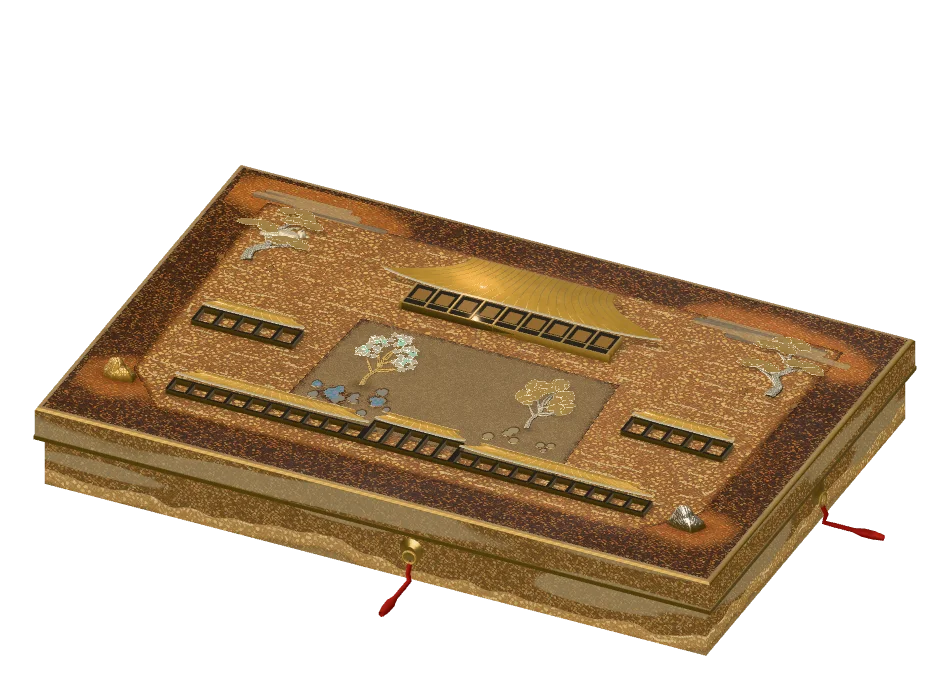
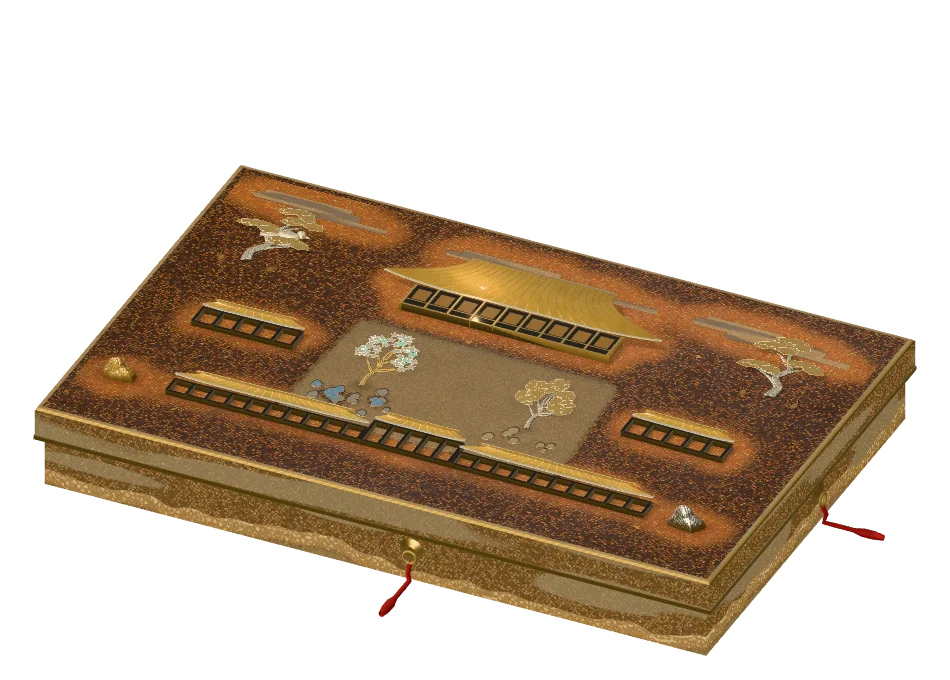
feat(plate): Nishikyo, Kamigyo and Shimogyo rebuilt without the platform; hill() and gardenGround() removed (nine wards, batch 3)

Changed region(s): [[0.1221, 0.2779, 0.8853, 0.8029]]

diff --git a/src/studies/toji/plate/nishikyo.js b/src/studies/toji/plate/nishikyo.js
@@ -1,21 +1,56 @@
-// A low shoreline of separate rooms, with an open bamboo deck reaching into the pond like a comma.
-// A loose arc of inlaid stones approaches from the left; the upper-right sky and near centre remain empty.
-import {MAT, gardenGround, pond, hall, moonDeck, moon, steppingStones, lantern, branchPine as pine, bird, rock, suyari, bambooFence} from './vocab.js';
+// Three shoin step away from the water in a goose-flight line; a moon deck reaches out over the pond's north-west shore.
+// The ground (doha.js) is drawn piece by piece, every outline written here as control points. There is no mountain in this ward:
+// Katsura is a garden on flat land, and what the eye should climb is the line of the shoin and the shore below it.
+//   the suhama  a chain of gold shores round the pond, far to near, each lying over the end of the one before:
+//               north-west (under the old shoin and the moon deck, wrapping the pond's west tip), middle (under the middle shoin),
+//               north-east (under the new shoin, round the pond's east end and out to the far pine), south-west (stepping stones and
+//               the near pine), south-east (the lantern and the east stone). The pond's south edge between the two south pieces is open.
+//   behind the shoin  bare lacquer and the mist: nothing is laid there.
+import {MAT, pond, hall, moonDeck, moon, steppingStones, lantern, branchPine as pine, bird, rock, suyari, bambooFence} from './vocab.js';
+import {tongues} from './doha.js';
+
+/// The shores, far to near (a later piece lies over an earlier one). Each outline is written as a few broad lobes (a big lobe 40-70 wide,
+/// a small one 15-25) with bays of different depths between, the lobes toward the water.
+const SHORES = [
+  // north-west: under the old shoin's wall and the moon deck; a big lobe under the deck, a small one, a big one wrapping the pond's west tip; its left flank is one big lobe with a small one at each end
+  {p: [[-300, -64], [-296, -84], [-276, -92], [-244, -90], [-226, -95], [-210, -93], [-190, -99], [-172, -93], [-152, -98], [-134, -91], [-108, -86], [-88, -74], [-80, -56], [-82, -38], [-90, -18], [-96, 2],
+    [-108, 15], [-124, 23], [-142, 21], [-150, 13], [-157, 22], [-166, 35], [-176, 38], [-182, 32], [-190, 46], [-200, 60], [-214, 66], [-228, 70],
+    [-238, 63], [-248, 66], [-258, 60], [-262, 48], [-274, 44], [-292, 32], [-306, 12], [-312, -12], [-306, -30], [-298, -40], [-304, -52]], tone: 'gold', seed: 61},
+  // middle: under the middle shoin; its left end lies over the north-west piece's right shoulder; two big lobes, two small, between them bays of different depth
+  {p: [[-118, -20], [-122, -34], [-112, -46], [-92, -56], [-80, -61], [-64, -58], [-52, -64], [-42, -62], [-20, -58], [0, -62], [22, -56], [40, -59], [56, -52], [70, -50], [84, -42], [94, -38], [102, -28], [112, -14], [108, -4],
+    [104, 0], [92, 1], [78, 0], [64, -1], [54, -6], [48, -14], [40, -6], [30, 0], [20, -3], [10, -13], [-4, -4], [-20, 3], [-40, 6], [-58, 3], [-72, -4],
+    [-82, 8], [-92, 12], [-102, 10], [-112, 6]], tone: 'gold', seed: 62},
+  // north-east: under the new shoin, round the pond's east end; the far pine stands on its right tail; its left end lies over the middle piece
+  {p: [[98, -28], [108, -32], [120, -37], [132, -33], [150, -37], [162, -32], [178, -35], [204, -44], [226, -60], [252, -70], [284, -76], [312, -72], [334, -60], [346, -42], [348, -20], [338, -2], [318, 8], [300, 14],
+    [284, 22], [268, 34], [260, 52], [262, 72], [258, 92], [246, 104], [234, 112], [226, 104], [238, 92], [240, 76], [238, 60], [228, 50], [214, 40], [204, 44],
+    [190, 38], [176, 29], [166, 26], [160, 16], [152, 10], [146, 16], [138, 13], [130, 9], [122, 0], [117, -7], [112, -10], [104, -16], [99, -24]], tone: 'gold', seed: 63},
+  // south-west: a long tongue along the pond's south-west edge, thick under the near pine and thinning to the right under the last stepping stones; its top left lies over the north-west piece
+  {p: [[-326, 104], [-306, 96], [-282, 98], [-262, 92], [-244, 84], [-236, 74], [-224, 86], [-208, 94], [-194, 102], [-178, 108], [-168, 118], [-158, 112], [-142, 116], [-126, 120],
+    [-112, 134], [-102, 130], [-92, 127], [-84, 130], [-60, 134], [-46, 142], [-56, 158], [-74, 166], [-92, 170], [-104, 166], [-116, 174], [-140, 178], [-156, 174],
+    [-168, 182], [-190, 188], [-212, 190], [-234, 190], [-250, 198], [-276, 202], [-300, 200], [-322, 190], [-334, 172], [-336, 150], [-330, 124]], tone: 'gold', seed: 64},
+  // south-east: under the stone lantern and the east stone; its top lies over the north-east piece's lower end
+  {p: [[186, 128], [198, 120], [206, 118], [214, 111], [222, 108], [228, 102], [236, 98], [252, 92], [268, 98], [284, 92], [300, 100], [314, 98], [324, 108], [340, 112], [350, 128], [352, 146],
+    [346, 168], [350, 186], [338, 204], [316, 212], [290, 214], [262, 208], [240, 214], [216, 210], [196, 200], [186, 178], [181, 165], [187, 142]], tone: 'gold', seed: 65},
+];
+/** The clusters, for the measuring and checking scripts. */
+const PIECES = {SHORES};
+export {PIECES};
 
 export function nishikyo() {
   return [
-    ...gardenGround('garden-bank', [[-340, -195], [35, -195], [222, -75], [328, -126], [342, -10], [220, 126], [-215, 172], [-340, 120]], {mat: MAT.gyobu, amp: .18}),
-    // Katsura fence: a run of bamboo along the bank's lower-left edge, a third of the way to the corner: this is an enclosed garden.
-    ...bambooFence('katsura-fence', [-205, 170], [-90, 159], {on: 'garden-bank'}),
-    ...pond('garden-pond', 15, 81, 217, 71, 7),
+    ...pond('garden-pond', 15, 69, 217, 71, 7),
+    ...tongues('shore', SHORES),
+    // Katsura fence: a run of bamboo along the south-west shore's lower edge: this is an enclosed garden.
+    ...bambooFence('katsura-fence', [-205, 170], [-90, 159], {on: 'shore-gold'}),
     ...suyari('mist-sky', -300, -72, -201, 13, 9),
-    ...suyari('mist-bank', 102, 321, 24, 12, 3),
+    // Behind the new shoin, between it and the far pine: the last roof of the line rises out of the mist.
+    ...suyari('mist-bank', 96, 320, -86, 12, 3),
     ...rock('east-stone', 312, 182, 22, 17, 7, {mat: MAT.kirikane}),
     ...hall('old-shoin', -205, -99, 80, 33, {wallH: 27, group: 'old-shoin'}),
     ...hall('middle-shoin', -18, -65, 75, 31, {wallH: 25}),
     ...hall('new-shoin', 144, -29, 62, 29, {wallH: 24}),
-    ...moon('pond-moon', -52, 62, 15),
-    ...moonDeck('tsukimi', -188, -112, -44, 8),
+    ...moon('pond-moon', -52, 50, 15),
+    ...moonDeck('tsukimi', -176, -100, -32, 20),
     ...steppingStones('approach', [[-210, 114, 11], [-178, 129, 12], [-145, 140, 11], [-110, 146, 12], [-74, 148, 11]]),
     ...lantern('shore-lantern', 246, 171, .9),
     ...pine('near-pine', -291, 183, 99, 12, 2, {clusters: 3}),

diff --git a/src/studies/toji/plate/shimogyo.js b/src/studies/toji/plate/shimogyo.js
@@ -1,12 +1,37 @@
 // Unequal twin roofs share a long baseline and a small connecting gallery, answered by a great fan-leaved tree.
 // The foreground between ginkgo and pine is an unpainted court; the back wall supplies a quiet horizontal limit.
-import {MAT, gardenGround, hall, corridor, branchGinkgo as ginkgo, fallenFans, branchPine as pine, bird, rock, suyari, lantern} from './vocab.js';
+import {MAT, hall, corridor, branchGinkgo as ginkgo, fallenFans, branchPine as pine, bird, rock, suyari, lantern} from './vocab.js';
+import {tongues} from './doha.js';
+
+// The ground (doha.js) is drawn piece by piece, every outline written here as control points. There is no mountain in this ward.
+//   the bank  one long, shallow bank across the near end of the lid, in three pieces, each lying over the end of the one before: the ginkgo stands at its
+//             left end and the pine at its right, the fallen fans, the ginkgo's stone and the east stone lie on it. Behind it the court is bare lacquer,
+//             the two halls standing on it (their roofs read against the dark) and the mist behind them.
+/// The pieces, far to near (a later piece lies over an earlier one). Each outline is written as a few broad lobes (a big lobe 40-70 wide, a small
+/// one 15-25) with bays of different depths between, the lobes toward the halls on the back edge and toward the viewer on the front.
+const BANK = [
+  // left: under the great ginkgo and the fallen fans; its back edge has two big lobes and two small, its right end round and low
+  {p: [[-336, 178], [-334, 160], [-322, 148], [-300, 145], [-282, 152], [-270, 157], [-262, 149], [-252, 150], [-246, 158], [-232, 143], [-214, 138], [-196, 144], [-186, 158], [-178, 152], [-160, 145],
+    [-140, 148], [-126, 154], [-118, 150], [-106, 146], [-92, 152], [-84, 154], [-76, 162], [-68, 168], [-64, 176], [-62, 188], [-70, 204], [-84, 214], [-100, 220], [-122, 221], [-140, 216], [-150, 211], [-160, 218], [-180, 221],
+    [-196, 224], [-212, 221], [-224, 219], [-236, 212], [-248, 218], [-268, 221], [-286, 217], [-300, 222], [-322, 218], [-334, 204], [-338, 190]], tone: 'gold', seed: 81},
+  // middle: under the ginkgo's stone and the east stone; lies over the left piece's right end; two big lobes on the back edge, the right one the higher
+  {p: [[-130, 176], [-126, 160], [-120, 152], [-106, 149], [-94, 142], [-78, 138], [-62, 141], [-48, 147], [-34, 153], [-22, 160], [-14, 160], [0, 152], [10, 146], [22, 150], [32, 158], [52, 150], [80, 140], [110, 138], [132, 146],
+    [146, 154], [160, 148], [176, 142], [194, 148], [210, 158], [218, 172], [216, 190], [204, 206], [188, 214], [170, 219], [146, 217], [130, 210], [116, 217], [90, 221], [62, 219], [40, 213],
+    [26, 219], [4, 221], [-16, 216], [-30, 208], [-44, 215], [-70, 219], [-96, 217], [-112, 210], [-124, 200], [-132, 190]], tone: 'gold', seed: 82},
+  // right: under the east pine; lies over the middle piece's right end; one big lobe above the pine and a small one beside it
+  {p: [[188, 186], [192, 164], [206, 152], [228, 146], [250, 138], [262, 134], [278, 140], [292, 148], [300, 142], [312, 144], [322, 152], [334, 164], [342, 180], [340, 196], [330, 208], [316, 215],
+    [296, 219], [274, 221], [256, 215], [240, 221], [220, 219], [204, 213], [192, 204], [188, 194]], tone: 'gold', seed: 83},
+];
+/** The clusters, for the measuring and checking scripts. */
+const PIECES = {BANK};
+export {PIECES};
 
 export function shimogyo() {
   return [
-    ...gardenGround('temple-court', [[-310, -212], [310, -212], [327, 60], [168, 95], [-108, 98], [-318, 62]], {amp: .12}),
-    ...suyari('mist-west', -338, -171, -127, 12, 4),
-    ...suyari('mist-east', 122, 329, 93, 15, 8),
+    ...tongues('bank', BANK),
+    // The mist is behind the halls, between them and the back wall: the roofs rise out of it.
+    ...suyari('mist-west', -338, -171, -140, 12, 4),
+    ...suyari('mist-east', 122, 329, -156, 15, 8),
     ...corridor('back-wall', -290, 290, -181, {open: false, height: 16}),
     ...hall('amidado', -154, -65, 101, 43, {wallH: 26, group: 'twin-halls'}),
     ...hall('goeido', 128, -80, 135, 59, {wallH: 41, bays: 9, group: 'twin-halls'}),

diff --git a/src/studies/toji/plate/vocab.js b/src/studies/toji/plate/vocab.js
@@ -43,22 +43,6 @@ export function blob(cx, cz, rx, rz, seed, wobble = .1, n = 44) {
   });
 }
 
-/** Dohā: a rounded earth bank. Its crown is firm, its foot dissolves into the ground. */
-export function hill(id, x0, x1, crown, foot, seed, {amp = .7, mat = MAT.mura, layer = 0, humps = 2} = {}) {
-  const r = rand(seed), top = [], n = 36;
-  const ph = r() * 6.283;
-  for (let i = 0; i <= n; i++) {
-    const t = i / n, x = lerp(x0, x1, t), arch = Math.pow(Math.sin(Math.PI * t), .6);
-    top.push([x, foot - (foot - crown) * arch * (.78 + .22 * Math.sin(t * Math.PI * humps * 2 + ph))]);
-  }
-  const p = part(id, KIND.hill, layer, mat, [(x0 + x1) / 2, (crown + foot) / 2]);
-  p.fills.push({d: [...top, [x1, foot + 26], [x0, foot + 26]], soft: amp, crisp: 0});
-  // A second, smaller swell inside gives the bank a body instead of a flat cut-out.
-  p.fills.push({d: blob(lerp(x0, x1, .42 + r() * .2), lerp(crown, foot, .52), (x1 - x0) * .26, (foot - crown) * .3, seed + 5, .14), soft: Math.min(1, amp + .25), crisp: 0});
-  p.lines.push({d: top.slice(3, n - 2), w: .9, amp: .5});
-  return [p];
-}
-
 /** A stream: a band that widens as it nears the viewer, with togidashi flow lines inside. */
 export function stream(id, points, widths, layer = 0) {
   if (points.length < 2) throw new Error(`stream(${id}): points must have at least 2 points`);
@@ -471,14 +455,6 @@ export function stoneSteps(id, cx, zBack, zFront, farW, nearW, count = 11) {
 /** An open mountain gate: the lower passage is negative space, with all posts on the same foot line. */
 export function sanmon(id, cx, zBase, halfW) { return meshSanmon(id, cx, zBase, halfW); }
 
-/** A quiet field of powdered earth joins a precinct without filling its reserved negative space with objects. */
-export function gardenGround(id, outline, {mat = MAT.mura, amp = .24} = {}) {
-  const centre = outline.reduce(([x, z], p) => [x + p[0] / outline.length, z + p[1] / outline.length], [0, 0]);
-  const p = part(id, KIND.still, 0, mat, centre);
-  p.fills.push({d: outline, soft: amp, crisp: 0});
-  return [p];
-}
-
 // Trees bypass the inflated silhouette path. Branch-prefixed names are compatibility aliases for ward scores.
 export {stampedPine, stampedPine as pine, stampedPine as branchPine,
   stampedMaple, stampedMaple as maple, stampedMaple as branchMaple,
@@ -488,7 +464,7 @@ export {stampedPine, stampedPine as pine, stampedPine as branchPine,
 // ---- Attached scenes (R5a). Each hangs on a named part (`on`), is flat inlay in the ground, and sits at a place written
 // out in its ward's own file. `rand` only jitters a stroke, with fixed seeds.
 // Their reach is .5, never 0: bake.js repaints every part with reach > 0 over the margins, in order, so a reach-0 part
-// under one of the big ground parts (a garden floor, a hill) would be painted out of the material map.
+// under one of the big ground parts (a ground piece) would be painted out of the material map.
 const need = (fn, id, on) => { if (typeof on !== 'string' || !on) throw new Error(`${fn}(${id}): "on" must name the part it hangs on`); };
 /** A band along a polyline, w0 wide at its first point and w1 at its last (closed outline). */
 function ribbon(pts, w0, w1) {
@@ -498,11 +474,6 @@ function ribbon(pts, w0, w1) {
     left.push([x - (b[1] - a[1]) / l * w, z + (b[0] - a[0]) / l * w]); right.push([x + (b[1] - a[1]) / l * w, z - (b[0] - a[0]) / l * w]);
   });
   return [...left, ...right.reverse()];
-}
-/** Where a hill's crest runs at x: the same curve hill() draws, so a small figure can stand on a ridge. */
-export function hillCrest(x0, x1, crown, foot, seed, {humps = 2} = {}) {
-  const ph = rand(seed)() * 6.283;
-  return x => { const t = (x - x0) / (x1 - x0); return foot - (foot - crown) * Math.pow(Math.sin(Math.PI * t), .6) * (.78 + .22 * Math.sin(t * Math.PI * humps * 2 + ph)); };
 }
 /** A point on one bank of a stream() (same Catmull-Rom as stream) with its tangent: [x, z, tx, tz]. side is -1 or 1. */
 export function streamEdge(points, widths, t, side) {

diff --git a/src/studies/toji/plate/kamigyo.js b/src/studies/toji/plate/kamigyo.js
@@ -1,12 +1,18 @@
 // A ceremonial enclosure around a white court: the broad hall is its head and low galleries its open arms.
 // Blossom and citrus face across the court; the bare outer rim and open entrance keep the enclosure breathing.
-import {MAT, gardenGround, hall, sandGarden, corridor, branchCourtTree as courtTree, petals, fruits, branchPine as pine, bird, rock, suyari, grassTufts} from './vocab.js';
+// There is no ground laid outside the galleries (no shore, no bank, no mountain): the court is already a floor of silver, and the Gosho is
+// meant to be flat and still. Outside the galleries is bare lacquer and nashiji, and three bands of mist (behind the hall, left and right).
+import {MAT, hall, sandGarden, corridor, branchCourtTree as courtTree, petals, fruits, branchPine as pine, bird, rock, suyari, grassTufts} from './vocab.js';
+
+/** No pieces of ground in this ward, for the measuring and checking scripts. */
+const PIECES = {};
+export {PIECES};
 
 export function kamigyo() {
   return [
-    ...gardenGround('court-surround', [[-315, -186], [315, -186], [309, 136], [260, 188], [-260, 188], [-309, 136]], {amp: .12}),
     ...sandGarden('nantei', -154, 154, -37, 142, {raked: false, mat: MAT.silver}),
     ...suyari('mist-west', -338, -185, -199, 12, 3),
+    ...suyari('mist-back', -118, 122, -183, 12, 5),
     ...suyari('mist-east', 157, 337, -177, 13, 8),
     ...rock('west-stone', -320, 159, 18, 15, 6),
     ...rock('east-stone', 308, 162, 21, 16, 2, {mat: MAT.kirigin}),

diff --git a/docs/agent-runs/2026-11-16-nine-wards.md b/docs/agent-runs/2026-11-16-nine-wards.md
@@ -262,3 +262,107 @@ lint exit 0；validate --strict ERROR 0／WARN 0；npm test 140/140 與 17/17；
 ## 回退
 
 `git checkout -- src/studies/toji/plate/minami.js src/studies/toji/plate/ukyo.js src/studies/toji/plate/sakyo.js src/studies/toji/plate/yamashina.js scripts/plate.test.mjs scripts/plate-doha-similar.mjs src/studies/toji/plate/static/W_MINAMI.* src/studies/toji/plate/static/W_UKYO.* src/studies/toji/plate/static/W_SAKYO.* src/studies/toji/plate/static/W_YAMASHINA.*`；刪除本節。
+
+# 第三批：西京、上京、下京，加收尾（分支 agent/nine3-1116）
+
+任務：九區 第三次 西京（W_NISHIKYO）、上京（W_KAMIGYO）、下京（W_SHIMOGYO）與 D 收尾／**完成**（結果為未提交的 diff）。
+請求模型／強度：Sonnet 5.5，未指定強度；實際設定：未確認。
+工作區：`C:\Git\_wt_kyoto_doha`，分支 `agent/nine3-1116`，base `4248add`。全部未提交。
+
+## 改了哪些檔案
+
+- `nishikyo.js`、`kamigyo.js`、`shimogyo.js`：拆掉 `gardenGround()`。西京、下京用 `tongues()` 手寫洲浜／岸（匯出 `PIECES`）；上京不補任何地（`PIECES = {}`）。檔案原本是 CRLF，保持 CRLF。
+- `vocab.js`（D）：刪 `hill()`、`gardenGround()`，以及 `hillCrest()`（見「D 收尾」）。
+- `scripts/plate.test.mjs`：`dohaWards` 加三區；新增 `flatWards`（沒有山的三區：片數 西京 4–6、上京 0、下京 3–4、遠山頭 0），`nineWards` 改由 `mountainWards` 加 `flatWards` 組成；佔比下限對西京、下京為 12%、上限 30%，對上京不要求（檔內註明理由）；岩的總數三區皆 0（`rock('east-stone')` 這類不叫 `rock-*`，量測不計）。`scripts/plate-doha-similar.mjs`：區名對照表加三區。
+- `src/studies/toji/plate/static/W_NISHIKYO.*`、`W_KAMIGYO.*`、`W_SHIMOGYO.*`：降級圖重拍（`node scripts/plate-fallback-shots.mjs src/studies/toji/plate/static day,night W_NISHIKYO,W_KAMIGYO,W_SHIMOGYO`），其餘八區的檔案沒有變（`git status` 只列這六個 webp）。
+- 沒動：`doha.js`、`three-pack.js`、`three-renderer.js`、`bake.js`、`crag-mesh.js`、其餘八區的構圖檔、岩、受保護檔案。
+
+## 位置微調（都在 12 單位內）
+
+- 西京：池 `garden-pond` 的 z 81→69（-12）；`pond-moon` z 62→50（-12）；`tsukimi` 月見台 x +12、z +12（原 -188..-112 × -44..8 → -176..-100 × -32..20）。理由：原本月見台前緣離水 15–48，岸又不能墊住台前；池上移、台下移後，台的右前角探進水面，其餘落在岸上，才是「從岸上挑出水面」。`mist-bank` z 24→-86（移到新書院後面；原位置的灰帶橫過新書院前與池東端，像一根浮板）。
+- 上京：`mist-west`、`mist-east` 沒動；新增 `mist-back`（殿後，-118..122、z -183）。
+- 下京：`mist-west` z -127→-140、`mist-east` z 93→-156（原本一條在院子中間，與「堂後用霞」不合；都移到兩堂與後牆之間）。
+- 上京沒有任何小景掛在 `court-surround`；西京的竹籬 `katsura-fence` 原掛 `garden-bank`，改掛 `shore-gold`（西南岸，竹籬就在它的下緣內）。
+
+## 每片岸、每道霞的理由
+
+座標是 plate 單位（z 愈大愈近）。每片輪廓逐點手寫在構圖檔裡，由大瓣（40–70 寬）、小瓣（15–25）與深淺不同的灣組成。
+
+| 區 | 件 | 為什麼在這裡 |
+|---|---|---|
+| 西京 | 岸 0 西北（金，最遠） | 站著舊書院的牆與月見台；前緣隨池的北緣走，一個大瓣在台下，一個小瓣，一個大瓣繞過池西端；左側一個大瓣、兩端各一小瓣。往上延到書院牆後（被牆擋住） |
+| 西京 | 岸 1 中（金） | 中書院下面；左端壓在岸 0 的右肩上，右端被岸 2 壓。兩個大瓣、兩個小瓣，灣深淺不同 |
+| 西京 | 岸 2 東北（金） | 新書院下面，繞過池東端，右尾伸到遠松的腳下；左端壓在岸 1 上 |
+| 西京 | 岸 3 西南（金） | 近松與最後一段踏石、竹籬都在它上面；在近松處最厚，往右沿池的西南緣逐漸變薄；上緣左端壓在岸 0 的下端（池西端兩片相接） |
+| 西京 | 岸 4 東南（金） | 石燈籠與東石的地；上緣壓在岸 2 的下端（池東端兩片相接）。池南緣在岸 3 與岸 4 之間是開的 |
+| 西京 | 霞 mist-sky（舊） | 舊書院後面，原位置 |
+| 西京 | 霞 mist-bank（改位置） | 新書院後面、遠松之間：新書院從霞裡露出；書院後面其餘是留白的地 |
+| 上京 | 地 | 拆掉台地後什麼都不補。南庭本身就是銀平目地，回廊外只有地與霞 |
+| 上京 | 霞 mist-west（舊）、mist-east（舊）、mist-back（新） | 左右各一道在兩棵松後面（原位置）；殿後一道在屋脊後（z -183，高 12），不與左右兩道相連成一條 |
+| 下京 | 岸 0 左（金） | 大銀杏站在它的左端；落扇、銀杏石都在它上面；後緣兩個大瓣、兩個小瓣，右端圓而低 |
+| 下京 | 岸 1 中（金） | 左端壓在岸 0 的右端，右端被岸 2 壓；東石在它上面；後緣右邊的大瓣比左邊高 |
+| 下京 | 岸 2 右（金） | 松站在它上面；左端壓在岸 1 上；一個大瓣在松上方、一個小瓣在旁 |
+| 下京 | 霞 mist-west、mist-east | 在兩堂與後牆之間：屋頂從霞裡升起 |
+
+三區都沒有銀的片：西京、下京的岸不加銀水線，因為壓在金岸內的細銀帶要靠光才看得見（南的銀水線已有這個問題），加了只增加片數與風險，沒有地標需要它。
+
+**下京和開案書的差異（要說）**：開案書寫「銀杏與松站在岸的兩端」，但兩棵樹在 z=198、201（盤的近端），兩堂在 z -39 以後，相距近 240；一條「在兩堂前面」的長岸不可能同時讓兩棵樹站在兩端。我做的是：一條橫貫盤近端的長岸（三片相疊），銀杏在左端、松在右端，落扇與兩顆石在它上面；岸與兩堂之間是留白的院子，燈籠在院子裡（站在地上，沒有岸）。兩堂本身沒有墊東西，站在深色漆地上，屋頂金色與霞對比更強；若主席要兩堂下也有一條淺岸，是另外加一片（會到約 19%），沒有做。
+
+## 數字
+
+`node scripts/plate-doha-measure.mjs W_NISHIKYO W_KAMIGYO W_SHIMOGYO`（輸出在 `.shots/nine/measure-after-3.json`）。修前三區都沒有 doha 的片（地是一整塊 `gardenGround`），所以「前」欄是 0／—。
+
+| 區 | 片 | 蓋面佔比（片，岩不計） | 留白／最大連通 | 最大單片 | 最長直線 |
+|---|---|---|---|---|---|
+| 西京 | 0→5 | —→29.3%（上限 30%） | —→49.2／98.6 | 8.54% | 24.6 |
+| 上京 | 0→0 | —→0% | —→68.8／95.5 | — | — |
+| 下京 | 0→3 | —→14.4% | —→65.6／99.4 | 7.09% | 24.4 |
+
+- 西京 29.3% 貼著 12–30% 的上限。五片是池四周該有的最少片數（北三、南二，缺哪一片池的某個角就沒有地）；要降到 25% 以下得縮岸 0 的左側與岸 2 的右尾。
+- **上京不適用「山＋岸 15–35%」**：測試對它不要求下限（`plate.test.mjs` 以 `ward === 'W_KAMIGYO' ? 0` 註明）。
+- 相似度（`node scripts/plate-doha-similar.mjs <區>`，門檻 .06）：西京 舌 .090；下京 舌 .176；上京無片。
+- 直線：防呆檢查（相鄰線段夾角 ≤4 度算直線）一開始西京 59.4、下京 52.5：都在被書院牆或屋頂擋住的後緣（用腳本列出 >28 的段落：西京岸 0 後緣 -193→-134、岸 1 後緣 -89→-44、岸 2 後緣 98→146，下京岸 1 後緣 -119→-69）。我在這些後緣各加了兩三個控制點（讓它們有高低，不是波浪），降到 25 以下。見得到的前緣原本就沒有超過。
+- `PLATE_TONE=1`（日 L50；夜），前→後：
+
+| | 地 | 濃梨子地 | 圖案 |
+|---|---|---|---|
+| 西京 | 27;21→30;23 | 51;40→52;40 | 52;35→52;35 |
+| 上京 | 28;22→32;24 | 45;32→49;39（佔 1.7%） | 45;36→44;35 |
+| 下京 | 26;20→32;24 | 46;33→50;38 | 57;41→57;41 |
+
+  上京的「圖案」44，低於「50 以上」；修前就是 45（上京的圖案層主要是銀庭與屋頂，本來就偏暗），這次沒有惡化也沒有改善。上京的濃梨子地只佔 1.7%（沒有岸），平均值意義不大。
+- 穿插：`node scripts/plate-clip.mjs .shots/nine/clip-3.json`：`findings 0  deepest 0`。
+- 切金（`PLATE_KIRI=1`；kiri 像素／岸面像素，日）：西京 1745／44108（4.0%）→296／29893（1.0%）；下京 1700／43280（3.9%）→253／14948（1.7%）；上京 1874／48060（3.9%）→287／312（分母只剩一點，比例 91.7% 沒有意義）。**絕對像素數三區都減少 80% 以上**，比例下降（上京除外，原因是分母）。夜：西京 1547→78、下京 1525→39、上京 1593→54。
+- 烘焙時間 bakeMs（日；夜，ms），前→後：西京 87;129→105;152（+18／+23）；上京 128;113→114;122；下京 116;119→130;123（+14／+4）。皆在 +60 內。
+- 換區最長幀（375×812、`PLATE_CPU=4`、四次，ms；前後同一組 job，前用 `git show HEAD:` 暫換回三個構圖檔與 vocab.js，量完用位元組比對還原）：西京 213/213/208/217 → 213/217/213/213；上京 608/608/579/617 → 604/613/608/604；下京 250/250/263/254 → 263/258/258/263。都在 ±3% 內；上京原本就是最慢的一區（約 600 ms），這次沒有變。
+- 四項驗收（D 做完之後）：`npm run lint` exit 0；`npx --no-install tsx validate_data.js --strict` ERROR 0／WARN 0；`npm test` 145/145 與 17/17（exit 0）；`npm run build` exit 0。
+
+## D 收尾
+
+- 先 `grep -rn "gardenGround\|hill(\|hillCrest" src scripts`：十一區、腳本、測試都不再用（只剩註解與 `KIND.hill` 這個種類常數，後者是 `doha.js` 的 `part()` 在用，留著）。
+- 從 `vocab.js` 刪：`hill()`（含它的文件註解）、`gardenGround()`、`hillCrest()`。`hillCrest()` 不被前兩者使用，但它是 `hill()` 那條曲線的複本、全 repo 沒有呼叫者（grep 為證），留著會誤導，一起刪；主席若要留，從 `git show HEAD:src/studies/toji/plate/vocab.js` 還回即可。`hill()` 用到的 `lerp`、`rand`、`blob`、`part`、`quad` 還有別處在用，一個都沒刪。`MAT.mura` 也有別處在用（岩、中京護城牆）。更新一行註解（「a garden floor, a hill」→「a ground piece」）。
+- 十一區輸出不變：`git status` 只有三區的降級圖變動；十一區總覽看起來其餘八區與前一批相同。
+
+## 每張圖看到什麼
+
+指令：`node scripts/plate-shot.mjs <outDir> <job…>`（`PLATE_LIGHT=0.97,0.03`，1440×900，不放大；放大張加 `PLATE_CENTER=1`）。修前修後並排：`.shots/nine/{nishikyo,kamigyo,shimogyo}/3-before-after-{day,night}.png`；放大：`3-zoom-shore.png`（西京、下京）、`3-zoom-outside.png`（上京）。十一區總覽：`.shots/nine/overview-day.png`、`overview-night.png`（每格標區名，同視窗大小、不放大）。
+
+- **西京**：池的四周是一串相疊的金岸，書院一座一座從岸上站起；三座書院比修前明顯（前面是整塊平地，書院的牆和地都是金）。月見台壓在岸 0 的右前，右前角探進水面。輪廓有大小不同的瓣與深淺不同的灣，岸與岸相接處看得見相疊（岸 0／1、1／2、0／3、2／4）。**不對的地方**：(1) 岸 0 是最大的一片（8.5%），整體像一塊大陸；左側已改為一個大瓣加兩個小瓣，仍偏圓厚。(2) 岸與池水顏色接近（都偏金），不放大時靠池邊的細線區分。(3) 新書院後面的霞在屋頂上方成一條灰褐色的扁帶（霞的已知問題，不在這一包）。(4) 岸 2 繞過池東端、與岸 4 接上的那一段很窄（約 20 寬），像一條細頸。
+- **上京**：回廊圍起的銀庭原樣；回廊外是梨子地與暗漆，只有霞；殿與回廊周圍有一圈橙色的暈（那是各部件的 `reach` 烘出來的濃梨子地，不是新加的地）。看起來平而靜，沒有破碎感；殿後的霞幾乎被屋脊遮掉，只露出兩端。**不對的地方**：(1) 殿的金屋頂比以前突出（對著暗地），但整體偏暗（圖案層 44），這是拆掉台地的必然；(2) 左右兩棵松與霞重疊，左松的樹冠有一半在霞上（原位置，沒有動）。
+- **下京**：兩堂站在暗漆上，金屋頂比以前突出；前面一條長岸，銀杏與松在兩端，落扇、銀杏石、東石都在岸上。放大看輪廓有大瓣小瓣、後緣的灣深淺不同，三片相疊處看得見。**不對的地方**：(1) 岸的前緣離盤緣只有約 8–12，放大時與盤緣的金邊靠得很近；(2) 岸和兩堂之間的院子是一大片暗地（連通 99%），兩個石燈籠孤立在上面；這是照開案書「其餘留白」，我判斷這是院子，不補；(3) 落扇的銀與金岸對比低，不放大時糊在一起（修前也是這樣）。
+
+## 自審
+
+1. 西京：岸 0 左側原本是一條緩的斜線，沒有瓣；改成一個大瓣加兩個小瓣（佔比 28.8→29.3%）。
+2. 西京、下京：後緣有 >30 的直段（見「直線」）；加控制點。
+3. 三區看過放大圖後沒有再改。沒有因為佔比或片數加東西；西京的佔比是五片的自然結果，不是調出來的。
+
+## 沒做到／要注意
+
+- 上京的圖案層 44（<50）與西京 29.3%（貼上限）見上。
+- 下京的兩堂下面沒有岸（見「和開案書的差異」）。
+- 收尾時我用一個過寬的 PowerShell 篩選（以 `vite` 或 `9377` 比對）來結束自己的 dev server（3000 埠）與無頭 Chrome（9377 埠），結束時兩個埠都已空；若主資料夾那邊另有 vite 也在跑，可能被一起結束，請留意。
+
+## 回退
+
+`git checkout -- src/studies/toji/plate/nishikyo.js src/studies/toji/plate/kamigyo.js src/studies/toji/plate/shimogyo.js src/studies/toji/plate/vocab.js scripts/plate.test.mjs scripts/plate-doha-similar.mjs src/studies/toji/plate/static/W_NISHIKYO.* src/studies/toji/plate/static/W_KAMIGYO.* src/studies/toji/plate/static/W_SHIMOGYO.*`；刪除本節。只回退 D：`git checkout -- src/studies/toji/plate/vocab.js`（三區的構圖不再 import 這兩個函式，可以單獨還原）。
